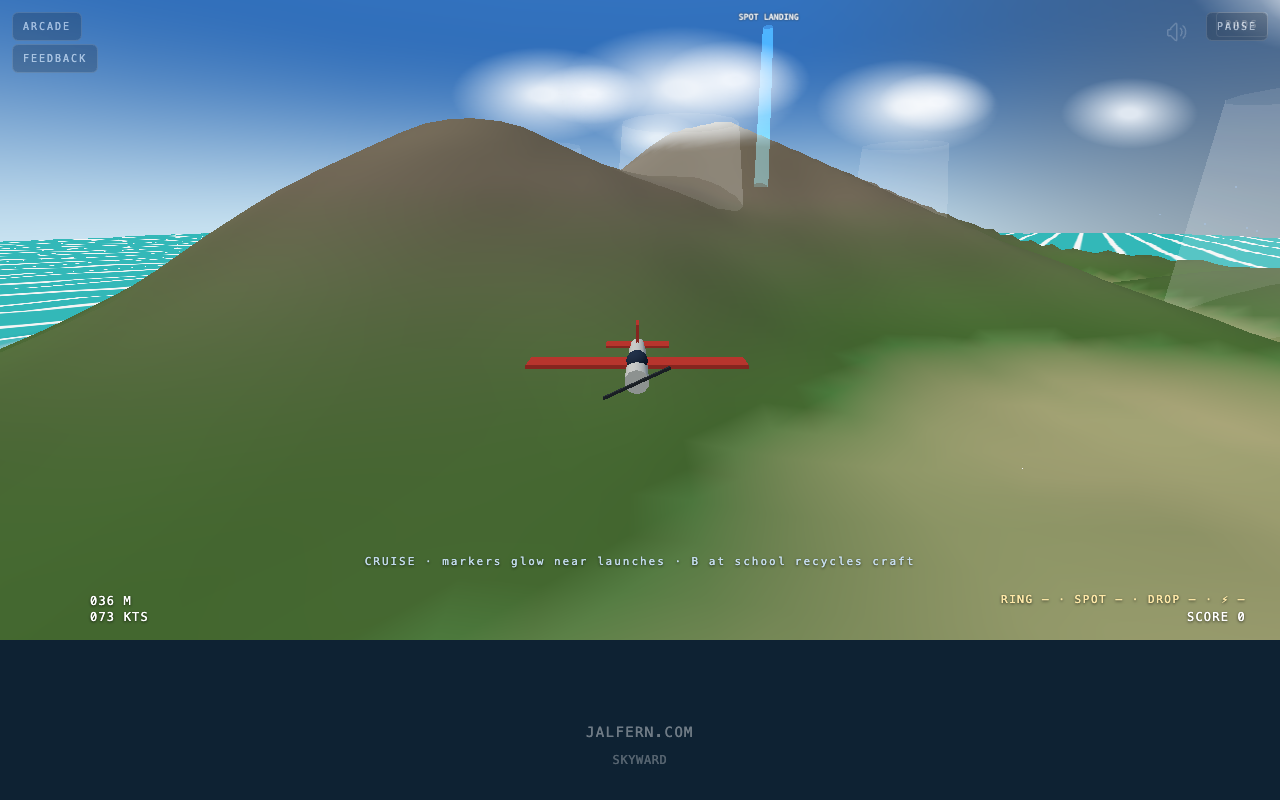
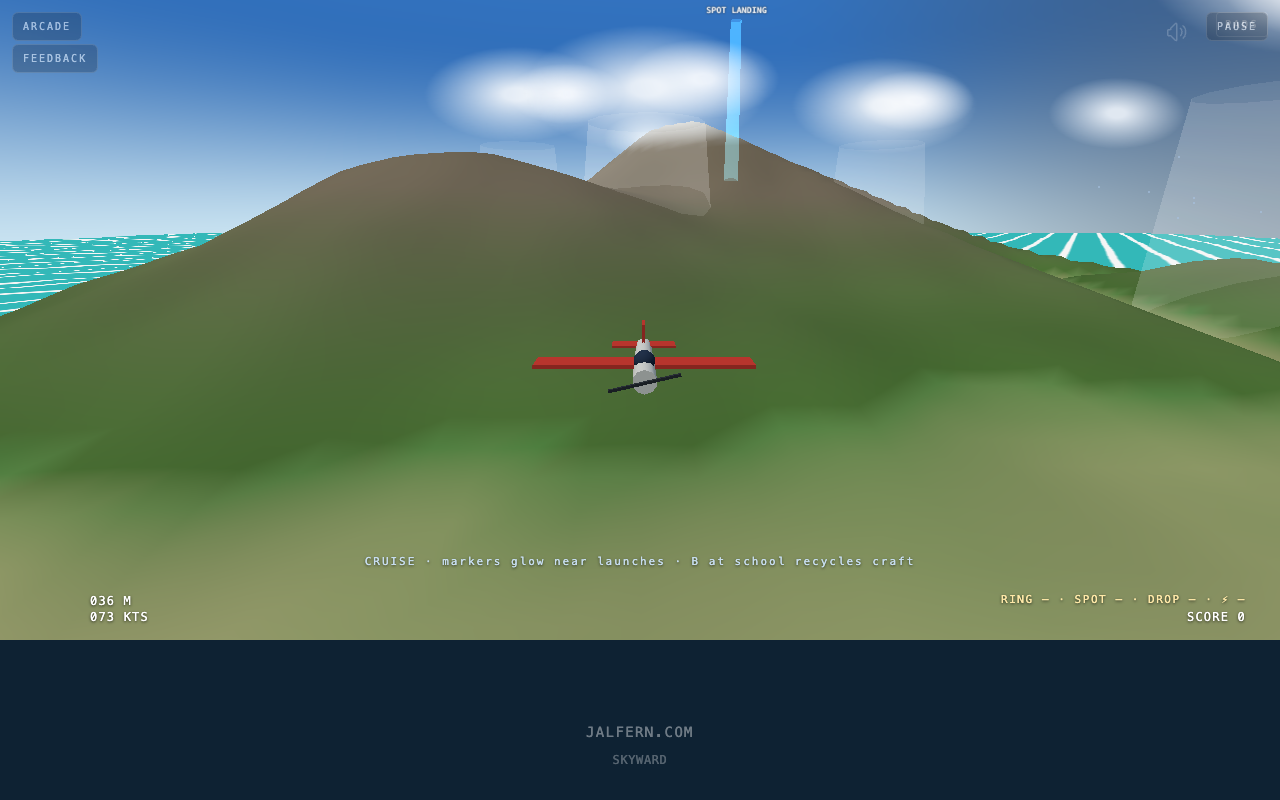
SKYWARD: living-storm harness legs, DEV probe, honest gaps (#3267)

diff --git a/src/games/Skyward/index.jsx b/src/games/Skyward/index.jsx
@@ -297,6 +297,17 @@ const SkywardGame = () => {
                 recycle: () => { recycleCraft(gs); return stateOf(gs) },
                 hash: () => gs.hash,
                 gameTime: () => gs.tick / 60,
+                // #3267 — where the cell stands in sim time right now (the ONE
+                // position sim weather and painted clouds share), plus how deep
+                // the pass start line currently sits under it
+                stormCell: () => {
+                    const p = gs.world.stormPos(gs.t)
+                    return {
+                        x: p.x, z: p.z,
+                        dx: p.x - gs.world.storm.x, dz: p.z - gs.world.storm.z,
+                        startS: +gs.world.stormAt(gs.world.passStart.x, gs.world.passStart.z, gs.t).s.toFixed(3),
+                    }
+                },
                 simSleep: (secs) => new Promise((res) => {
                     const target = gs.tick + Math.round(secs * 60)
                     const iv = setInterval(() => {

diff --git a/src/games/Skyward/README.md b/src/games/Skyward/README.md
@@ -11,7 +11,10 @@ the thunderstorm a course (THUNDERPASS) and set the thermals drifting.
   + carved course flats + a low supply corridor (the belt's route), the shared
   Gerstner field, thermals (drifting with the sea-breeze via `thermalPos(c,t)`
   — the ONE answer for sim lift, autopilot target and painted cumulus), the
-  storm cell and the THUNDERPASS gate line (`passStart`, `passRings`).
+  storm cell — which LIVES (#3267): `stormPos(t)` sweeps it on a slow seeded
+  ellipse (E/W ±64 m ~140 s, N/S ±34 m ~190 s) and gusts, core downdraft,
+  rain, clouds and the bolt anchor all read it — and the fixed THUNDERPASS
+  gate line (`passStart`, `passRings`) the weather moves over.
 - `sim.js` — 60 Hz pure sim (zero DOM, zero Math.random): plane / glider /
   belt physics, RING RUN / SPOT LANDING / TARGET DROP / THUNDERPASS scoring,
   graduation. The storm fights the PLANE too (rung 2): gusts, ~2 m/s core
@@ -43,9 +46,14 @@ npm run skywardcheck -- --mutate   # proves the harness can fail
 node scripts/skywardplay.mjs       # headless Chrome: boot → play → events → zero page errors
 ```
 ## Honest gaps
-- Rung 2: the storm cell itself stands still (the gates are fixed; thermals
-  drift, the thunderhead does not). No online (issue: not yet), no second
-  landing strip, engine audio is per-action rather than a continuous loop.
+- **MOVED by #3267:** the storm cell no longer stands still — `stormPos(t)`
+  drifts the whole cell (weather AND paint) while the gates stay fixed, so a
+  memorised THUNDERPASS line is a stale line. What remains of the old bullet:
+  no online (issue: not yet), no second landing strip, engine audio is
+  per-action rather than a continuous loop.
+- The cell drifts on a fixed seeded ellipse, not a steered weather sim (no
+  cell-to-cell travel, no squall line); a long run learns the sweep the way
+  rungs 1's lines were learned.
 - Lightning is scenery — no strike hazard anywhere (by design, the school
   forgives; the downdraft is the punishment).
 - Thermals are analytic columns, not sim'd convection.
